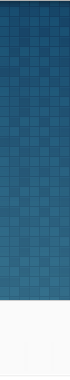
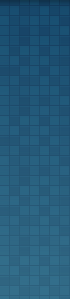
Shorten the home page slogan band to one line
The band was 76px tall for one sentence. The extra height was the
grey tail of the carousel image, and the paragraph's 9px bottom
margin pushed the decorative line below the text.

Make the band 48px, centre the line on the sentence, and paint that
tint only behind the band. The carousel image stays on the slide, so
a narrow screen does not uncover the old grey. The image is cropped
to its blue rows.

Changed region(s): [[0.0, 0.7826, 1.0, 1.0], [0.0, 0.0, 1.0, 0.0301]]

diff --git a/css/99s.css b/css/99s.css
@@ -118,7 +118,8 @@ h2{margin-top:20px}
 #contents ul li{background:linear-gradient(#e9e9e9,#e9e9e9) no-repeat 0 center/17px 4px;list-style:none outside none;padding-left:30px}
 #contents .row > div{padding-bottom:35px}
 #contents .row > div.carousel-inner{padding-bottom:0}
-#home-carousel{background:url(../img/home/carousel_light_effect.png) no-repeat scroll center bottom transparent;color:#FFF;height:298px;margin-bottom:0;padding-top:1px;text-shadow:.1em .1em .05em #333}
+#home-carousel{color:#FFF;height:298px;margin-bottom:0;padding-top:1px;text-shadow:.1em .1em .05em #333;z-index:0}
+#home-carousel::before{content:"";display:block;position:absolute;z-index:-1;top:0;bottom:0;left:calc(20px - (100vw - 940px)/2);width:100vw;pointer-events:none;background:url(../img/home/carousel_light_effect.png) no-repeat calc(50% - 10px) bottom,url(../img/home/carousel_bg_blue.png) repeat-x 0 0 #326c88}
 #home-carousel h1{font-size:40px;margin-bottom:20px;margin-top:35px}
 #home-carousel h1,#home-carousel h2{color:#FFF;font-weight:400;margin:20px 0}
 #home-carousel p{margin:20px 0;font-size:15px}
@@ -126,10 +127,10 @@ h2{margin-top:20px}
 .cowboy-logo{margin-top:5px}
 .ranch-logo{margin-left:20px;margin-top:-2px}
 .right-buttons{text-align:right}
-#contents.home{background:url(../img/home/carousel_bg_blue.png) repeat-x scroll 0 -1px transparent}
-#company-description{height:76px;margin-bottom:15px;overflow:hidden}
-#company-description div.paragraph{background:url(../img/header_line.png) repeat-x scroll center center transparent;color:#333;font-style:italic;line-height:1.3em;margin:14px 0;text-align:center}
-#company-description p{background:none repeat scroll 0 0 #FAFAFA;display:inline-block;width:70%;font-size:18px}
+#contents.home{background:linear-gradient(#fafafa,#fafafa) no-repeat 0 299px/100% 48px #fff}
+#company-description{height:48px;margin-bottom:15px;overflow:hidden}
+#company-description div.paragraph{background:url(../img/header_line.png) repeat-x scroll center center transparent;color:#333;font-style:italic;line-height:26px;margin:11px 0;text-align:center}
+#company-description p{background:none repeat scroll 0 0 #FAFAFA;display:inline-block;width:70%;font-size:18px;line-height:26px;margin:0;vertical-align:top}
 .blog_item .date .year,.event .date .year{font-size:20px;display:block;margin-bottom:4px}
 .blog_item .date,.event .date{font-size:14px;background:#acb75c;height:50px;width:60px;border-radius:34px;border:4px solid #c5d573;color:#fff;float:left;text-align:center;padding-top:10px;padding-left:0;font-style:normal;margin-left:-60px;margin-top:-68px;position:absolute}
 .event .date{margin-left:-75px;margin-top:-20px}
@@ -197,6 +198,7 @@ pre{white-space:pre;word-break:normal;word-wrap:normal;overflow-x:auto;line-heig
 #page-head .brand{float:none;display:block;margin-left:0}
 #home-carousel,#home-carousel .carousel-inner{height:auto}
 #home-carousel img{display:none}
+#contents.home{background:#fff}
 #company-description{height:auto}
 #company-description p{width:auto}
 footer .credits{text-align:left}
@@ -238,6 +240,7 @@ pre code{color:inherit}
 hr{border-top-color:var(--line);border-bottom-color:transparent}
 .blog_item{border-bottom-color:var(--line)}
 #contents.home{background:linear-gradient(#20597a,#2b6583 150px,#336e8b 298px,var(--bg) 299px) no-repeat 0 0/100% 299px var(--bg)}
+#home-carousel::before{background:url(../img/home/carousel_light_effect.png) no-repeat calc(50% - 10px) bottom}
 #company-description div.paragraph{color:var(--text);background:linear-gradient(var(--line),var(--line)) repeat-x center/100% 1px}
 #company-description p{background:var(--bg)}
 input{background:var(--code-bg);color:var(--text);border-color:var(--line)}
@@ -260,6 +263,7 @@ pre font[color="#008080"]{color:#56d4dd}
 
 /* Narrow screens. This follows dark mode so the sponsor rule stays off. */
 @media (max-width:979px){
+#home-carousel::before{left:-15px;width:100vw;background-position:center bottom,0 0}
 #company-description div.paragraph{background:none;text-align:left}
 #company-description p{display:block}
 footer .credits p{display:inline-block;vertical-align:middle;margin:0 10px 0 0}
